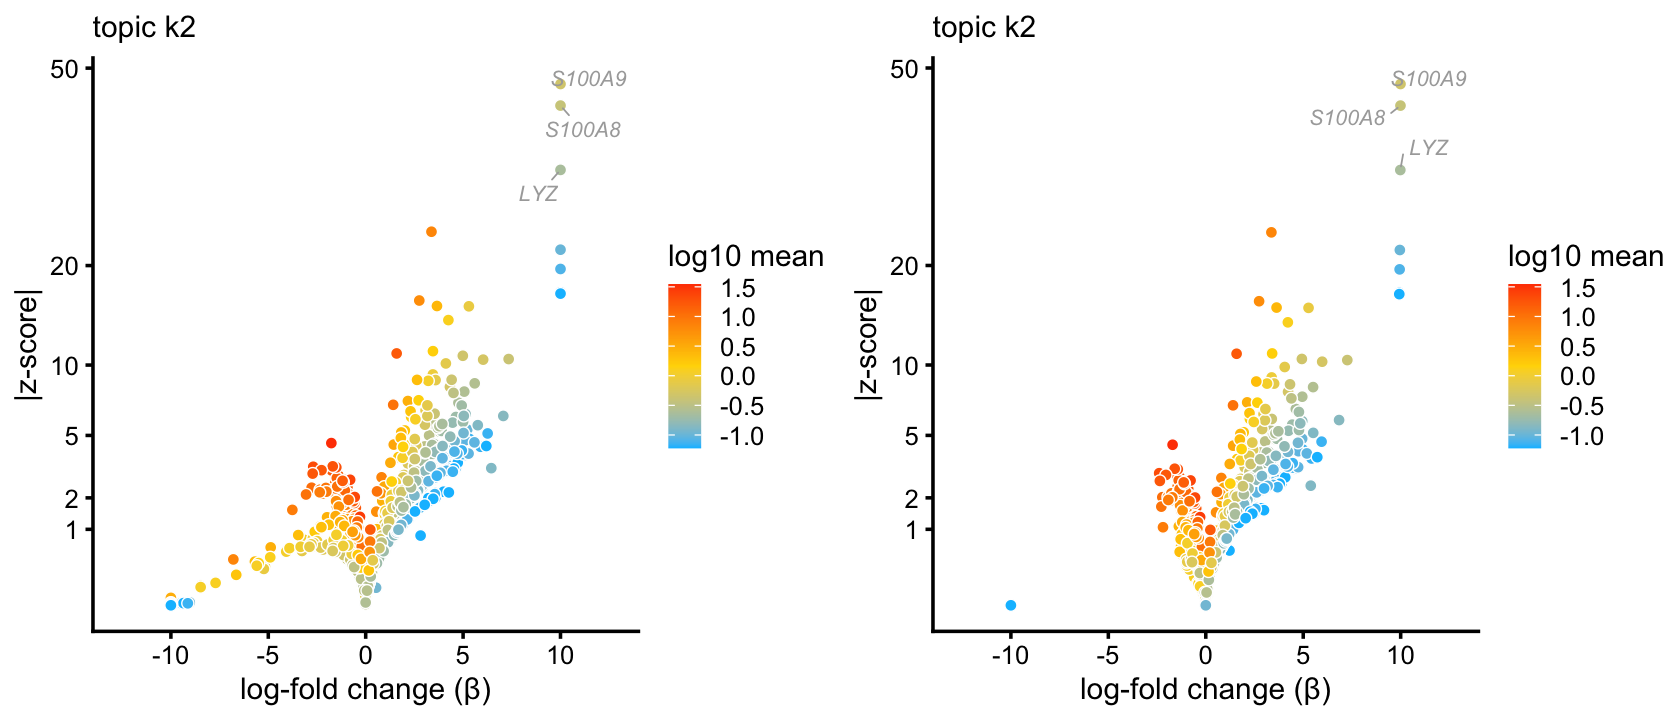
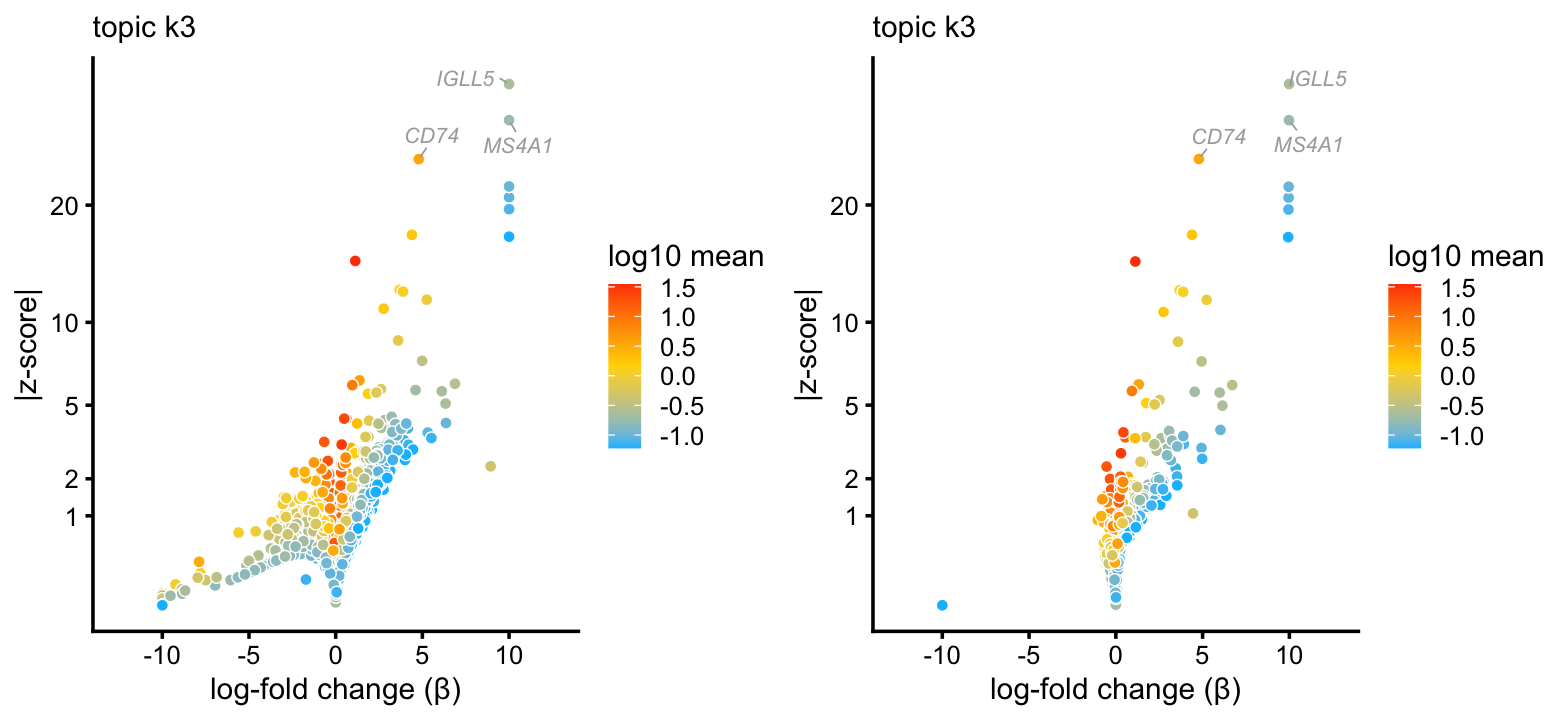
Improved the plots in shrink_demo.

diff --git a/docs/shrink_demo.html b/docs/shrink_demo.html
@@ -414,16 +414,16 @@ This reproducible <a href="http://rmarkdown.rstudio.com">R Markdown</a> analysis
 <div class="panel panel-default">
 <div class="panel-heading">
 <p class="panel-title">
-<a data-toggle="collapse" data-parent="#workflowr-checks" href="#strongRepositoryversionstrongahrefhttpsgithubcomstephenslabsinglecelltopicstreec5cce02d8244938c41876e22d68776b6fe8f3ff8targetblankc5cce02a"> <span class="glyphicon glyphicon-ok text-success" aria-hidden="true"></span> <strong>Repository version:</strong> <a href="https://github.com/stephenslab/single-cell-topics/tree/c5cce02d8244938c41876e22d68776b6fe8f3ff8" target="_blank">c5cce02</a> </a>
+<a data-toggle="collapse" data-parent="#workflowr-checks" href="#strongRepositoryversionstrongahrefhttpsgithubcomstephenslabsinglecelltopicstree5ef4b98ea34b6119180a3bf05b62e487803c3040targetblank5ef4b98a"> <span class="glyphicon glyphicon-ok text-success" aria-hidden="true"></span> <strong>Repository version:</strong> <a href="https://github.com/stephenslab/single-cell-topics/tree/5ef4b98ea34b6119180a3bf05b62e487803c3040" target="_blank">5ef4b98</a> </a>
 </p>
 </div>
[2 lines of base64/hex data omitted]
 <div class="panel-body">
 <p>
 Great! You are using Git for version control. Tracking code development and connecting the code version to the results is critical for reproducibility.
 </p>
 <p>
-The results in this page were generated with repository version <a href="https://github.com/stephenslab/single-cell-topics/tree/c5cce02d8244938c41876e22d68776b6fe8f3ff8" target="_blank">c5cce02</a>. See the <em>Past versions</em> tab to see a history of the changes made to the R Markdown and HTML files.
+The results in this page were generated with repository version <a href="https://github.com/stephenslab/single-cell-topics/tree/5ef4b98ea34b6119180a3bf05b62e487803c3040" target="_blank">5ef4b98</a>. See the <em>Past versions</em> tab to see a history of the changes made to the R Markdown and HTML files.
 </p>
 <p>
 Note that you need to be careful to ensure that all relevant files for the analysis have been committed to Git prior to generating the results (you can use <code>wflow_publish</code> or <code>wflow_git_commit</code>). workflowr only checks the R Markdown file, but you know if there are other scripts or data files that it depends on. Below is the status of the Git repository when the results were generated:
@@ -487,6 +487,40 @@ Message
 </tr>
 </thead>
 <tbody>
+<tr>
+<td>
+Rmd
+</td>
+<td>
+<a href="https://github.com/stephenslab/single-cell-topics/blob/5ef4b98ea34b6119180a3bf05b62e487803c3040/analysis/shrink_demo.Rmd" target="_blank">5ef4b98</a>
+</td>
+<td>
+Peter Carbonetto
+</td>
+<td>
+2021-02-03
+</td>
+<td>
+workflowr::wflow_publish(“shrink_demo.Rmd”)
+</td>
+</tr>
+<tr>
+<td>
+html
+</td>
+<td>
+<a href="https://rawcdn.githack.com/stephenslab/single-cell-topics/23e02100c4521c8c04938c6b263d559a26e56cbe/docs/shrink_demo.html" target="_blank">23e0210</a>
+</td>
+<td>
+Peter Carbonetto
+</td>
+<td>
+2021-02-03
+</td>
+<td>
+Built first draft of shrink_demo analysis.
+</td>
+</tr>
 <tr>
 <td>
 Rmd
@@ -561,36 +595,57 @@ p1 &lt;- ggplot(pdat,aes(x = raw,y = shrunk,fill = log10(mean))) +
   scale_fill_gradient2(low = &quot;deepskyblue&quot;,mid = &quot;gold&quot;,high = &quot;orangered&quot;,
                        na.value = &quot;gainsboro&quot;,midpoint = 0) +
   geom_abline(slope = 1,intercept = 0,color = &quot;skyblue&quot;,linetype = &quot;dotted&quot;) +
-  xlim(c(-5,10)) +
-  ylim(c(-5,10)) +
   theme_cowplot(font_size = 10)
-print(p1)
-# Warning: Removed 35 rows containing missing values (geom_point).</code></pre>
-<p><img src="figure/shrink_demo.Rmd/scatterplot-1-1.png" width="840" style="display: block; margin: auto;" /></p>
+p2 &lt;- p1 + xlim(-4,8) + ylim(-4,8)
+plot_grid(p1,p2)
+# Warning: Removed 89 rows containing missing values (geom_point).</code></pre>
+<p><img src="figure/shrink_demo.Rmd/scatterplot-1.png" width="840" style="display: block; margin: auto;" /></p>
 <p><em>Add text here.</em></p>
-<pre class="r"><code>pdat &lt;- data.frame(mean   = res1$colmeans,
-                   raw    = res1$Z[,2],
-                   shrunk = res2$Z[,2])
-p2 &lt;- ggplot(pdat,aes(x = raw,y = shrunk,fill = log10(mean))) +
-  geom_point(shape = 21,color = &quot;white&quot;) +
-  scale_fill_gradient2(low = &quot;deepskyblue&quot;,mid = &quot;gold&quot;,high = &quot;orangered&quot;,
-                       na.value = &quot;gainsboro&quot;,midpoint = 0) +
-  geom_abline(slope = 1,intercept = 0,color = &quot;skyblue&quot;,linetype = &quot;dotted&quot;) +
-  xlim(c(-5,10)) +
-  ylim(c(-5,10)) +
-  theme_cowplot(font_size = 10)
-print(p2)
-# Warning: Removed 42 rows containing missing values (geom_point).</code></pre>
-<p><img src="figure/shrink_demo.Rmd/scatterplot-2-1.png" width="840" style="display: block; margin: auto;" /></p>
-<p><em>Add text here.</em></p>
-<pre class="r"><code>p3 &lt;- volcano_plot(res1,k = &quot;k2&quot;,labels = genes$symbol,
+<pre class="r"><code>p3 &lt;- volcano_plot(res1,k = &quot;k3&quot;,labels = genes$symbol,
                    filter_low_counts = 0.05,
                    label_above_quantile = 0.999)
-p4 &lt;- volcano_plot(res2,k = &quot;k2&quot;,labels = genes$symbol,
+p4 &lt;- volcano_plot(res2,k = &quot;k3&quot;,labels = genes$symbol,
                    filter_low_counts = 0.05,
                    label_above_quantile = 0.999)
 plot_grid(p3,p4)</code></pre>
-<p><img src="figure/shrink_demo.Rmd/volcano-plots-1.png" width="840" style="display: block; margin: auto;" /></p>
+<p><img src="figure/shrink_demo.Rmd/volcano-plots-1.png" width="780" style="display: block; margin: auto;" /></p>
+<p>
+<button type="button" class="btn btn-default btn-xs btn-workflowr btn-workflowr-fig" data-toggle="collapse" data-target="#fig-volcano-plots-1">
+Past versions of volcano-plots-1.png
+</button>
+</p>
+<div id="fig-volcano-plots-1" class="collapse">
+<div class="table-responsive">
+<table class="table table-condensed table-hover">
+<thead>
+<tr>
+<th>
+Version
+</th>
+<th>
+Author
+</th>
+<th>
+Date
+</th>
+</tr>
+</thead>
+<tbody>
+<tr>
+<td>
+<a href="https://github.com/stephenslab/single-cell-topics/blob/23e02100c4521c8c04938c6b263d559a26e56cbe/docs/figure/shrink_demo.Rmd/volcano-plots-1.png" target="_blank">23e0210</a>
+</td>
+<td>
+Peter Carbonetto
+</td>
+<td>
+2021-02-03
+</td>
+</tr>
+</tbody>
+</table>
+</div>
+</div>
 <br>
 <p>
 <button type="button" class="btn btn-default btn-workflowr btn-workflowr-sessioninfo" data-toggle="collapse" data-target="#workflowr-sessioninfo" style="display: block;">
